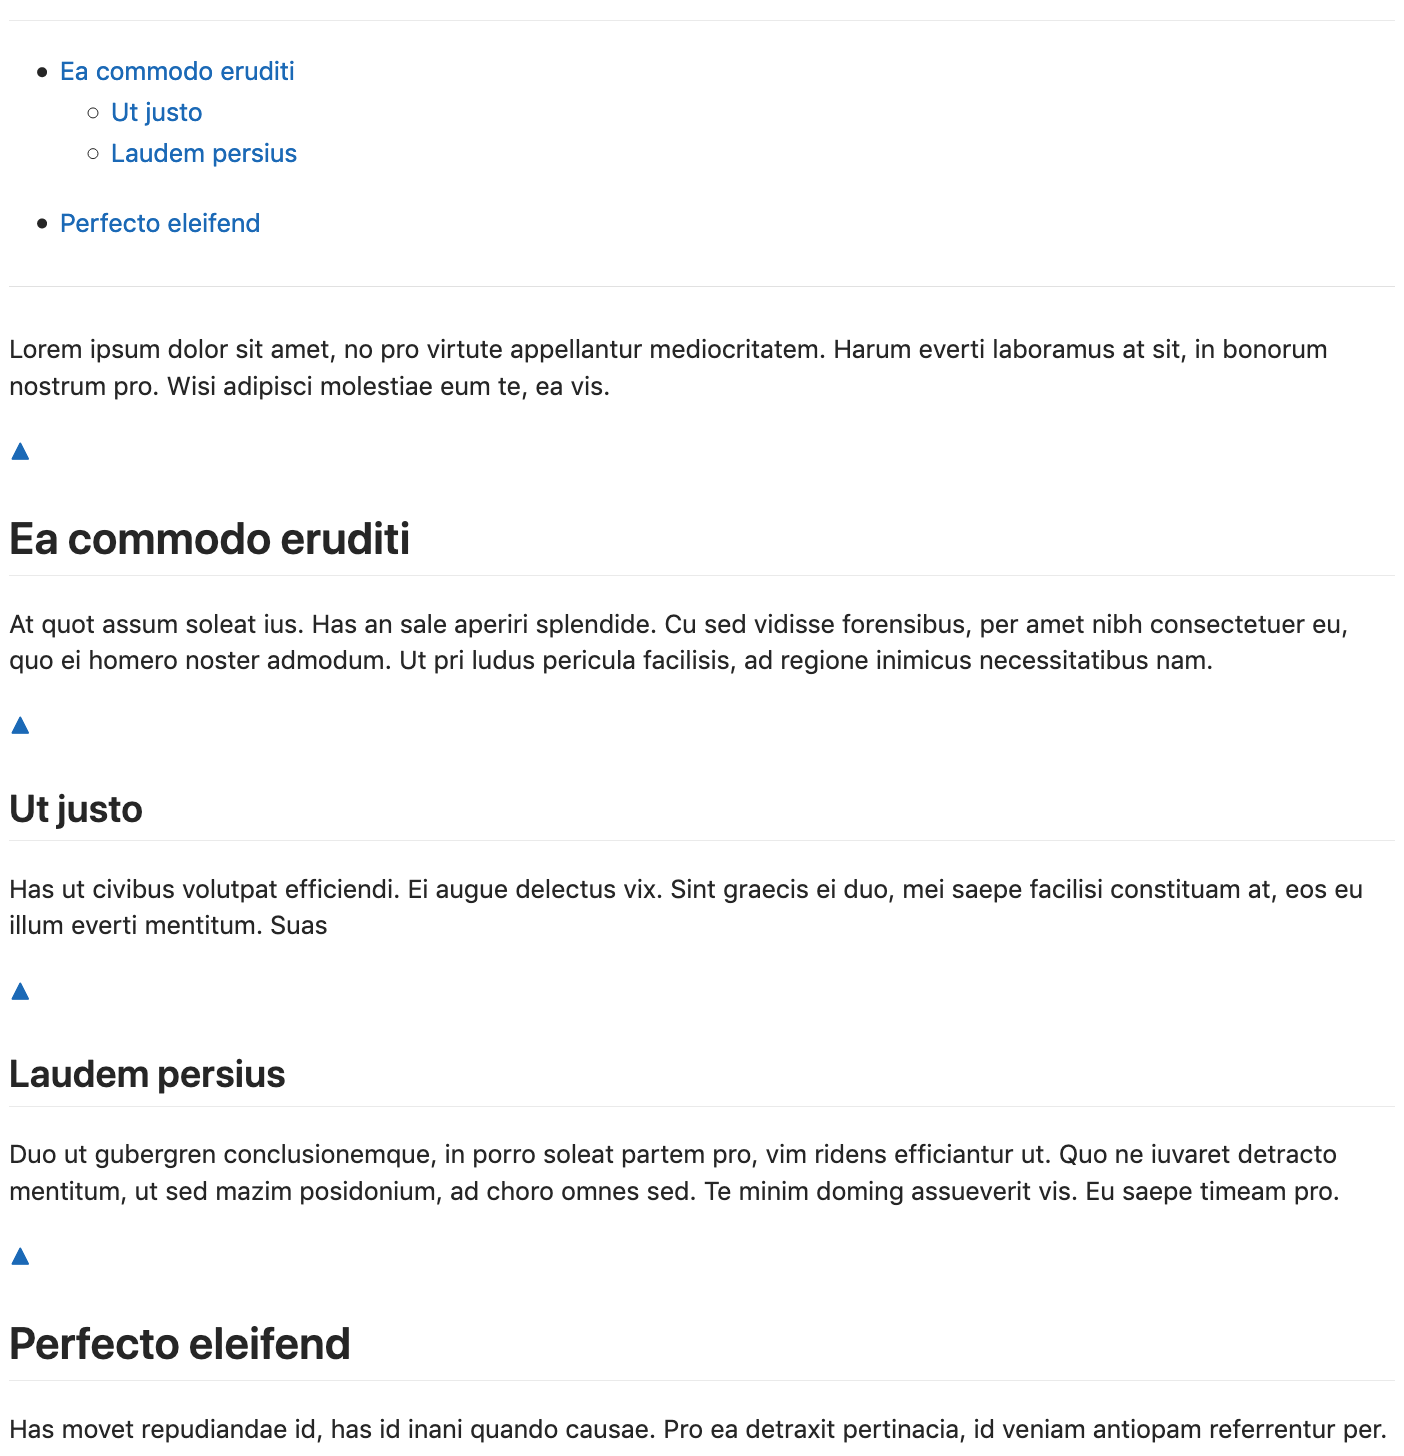
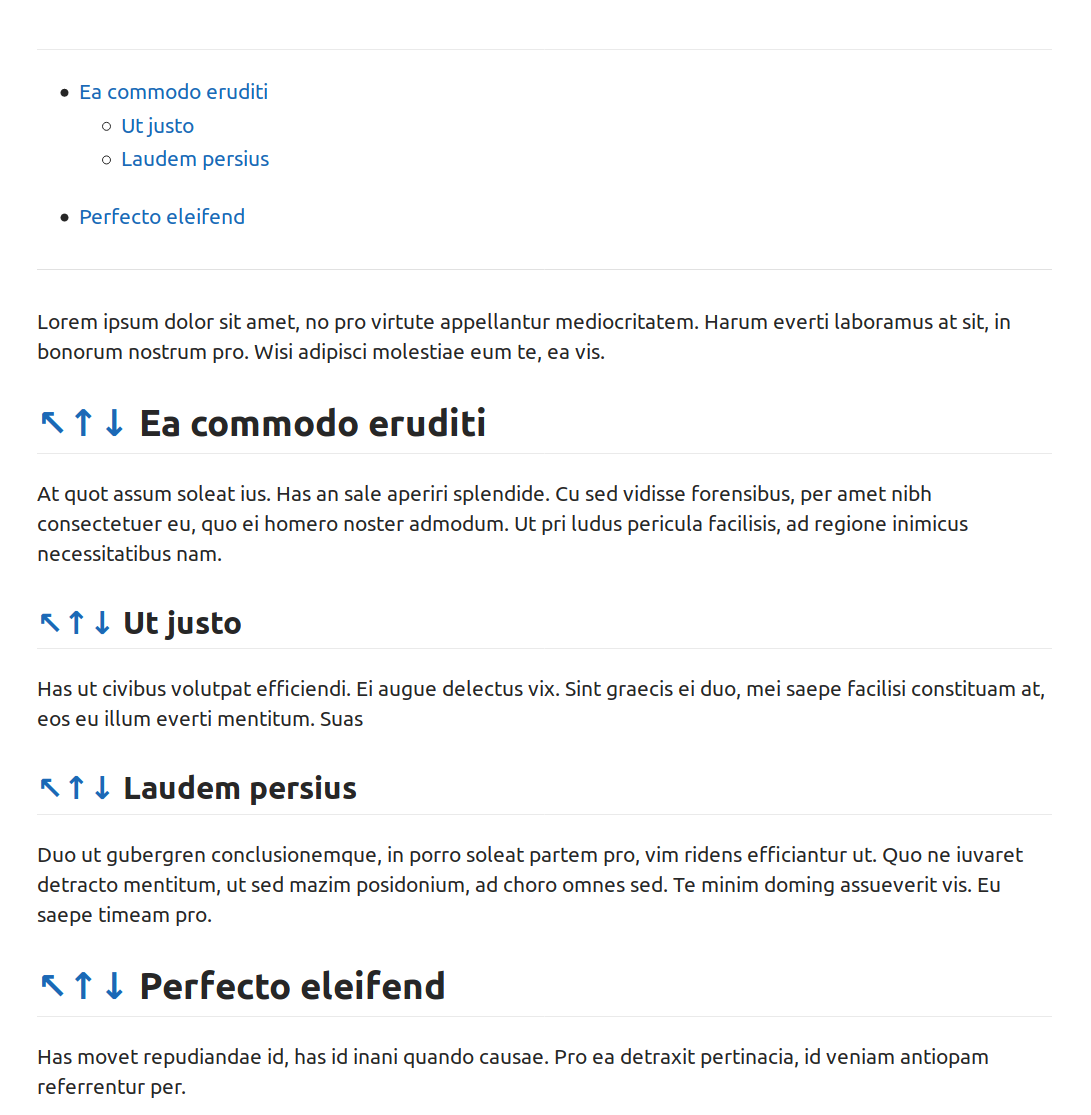
Update documentation

diff --git a/README.md b/README.md
@@ -2,54 +2,45 @@
 
 # CLI Helper for Markdown (WIP)
 
-Adds table of contents to  markdown document. 
+Adds or removes table of contents to  markdown document. 
 
-Dump raw document:
 ```bash
-./bin/mdh dump tests/resources/simple.md
-one
-# two
-three
-## four
-five
-## six
-seven
-# eight
-nine
+./bin/mdh --help
+Usage: mdh_cli.py [OPTIONS] COMMAND [ARGS]...
+
+Options:
+  --help  Show this message and exit.
+
+Commands:
+  cleanse  Removes existing TOC and all internal links
+  dump     Dumps markdown document to console
+  toc      Adds TOC to top of file
 ```
 
-Add TOC:
+## Usage
+
+Dump existing document:
 
 ```bash
-./bin/mdh dump tests/resources/simple.md --toc
-<a name="top"></a>
----
-* [two](#1)
-  * [four](#1_1)
-  * [six](#1_2)
-* [eight](#2)
----
-one
+./bin/mdh dump tests/resources/simple.md 
+```
 
-[▲](#top)
-<a name="1"></a>
-# two
-three
+If necessary, remove old TOC:
 
-[▲](#top)
-<a name="1_1"></a>
-## four
-five
+```bash
+./bin/mdh cleanse tests/resources/simple.md 
+```
 
-[▲](#top)
-<a name="1_2"></a>
-## six
-seven
+Add new TOC:
 
-[▲](#top)
-<a name="2"></a>
-# eight
-nine
+```bash
+./bin/mdh toc tests/resources/simple.md 
+```
+
+Optionally, add navigation arrows to headers:
+
+```bash
+./bin/mdh toc --navigation tests/resources/simple.md 
 ```
 
 ## Screenshots
